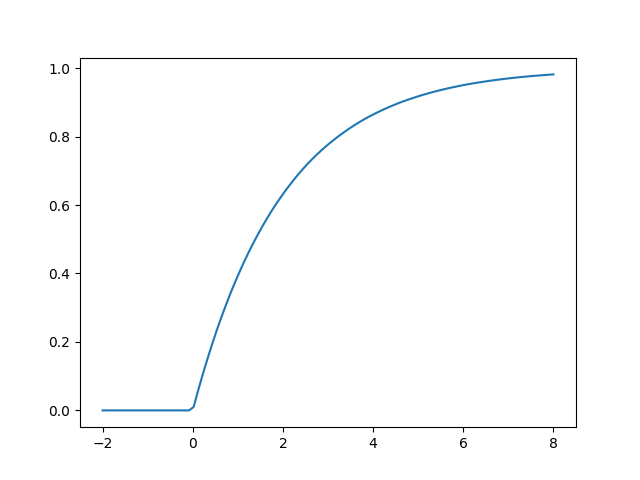
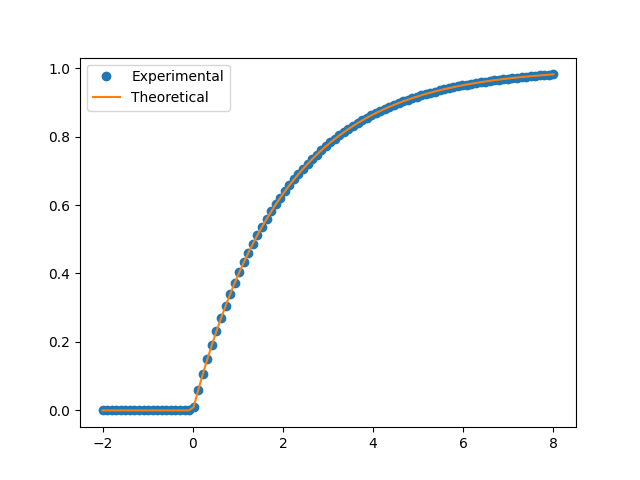
rand_nums Section 3: Added theoretical values for V

Changed region(s): [[0.1562, 0.125, 0.875, 0.875], [0.125, 0.125, 0.3438, 0.2188]]

diff --git a/rand_nums/codes/cdf_v.py b/rand_nums/codes/cdf_v.py
@@ -12,6 +12,10 @@ freqs = []
 for i in range(NUM_INTERVALS):
     freqs.append(np.sum(v_arr < buckets[i]) / len(v_arr))
 
-plt.plot(buckets, freqs)
+theoretical = np.where(buckets < 0, 0, 1 - np.exp(-buckets/2))
+
+plt.plot(buckets, freqs, 'o', label='Experimental')
+plt.plot(buckets, theoretical, '-', label='Theoretical')
+plt.legend()
 plt.savefig('../figs/cdf_v.png')
 plt.show()
